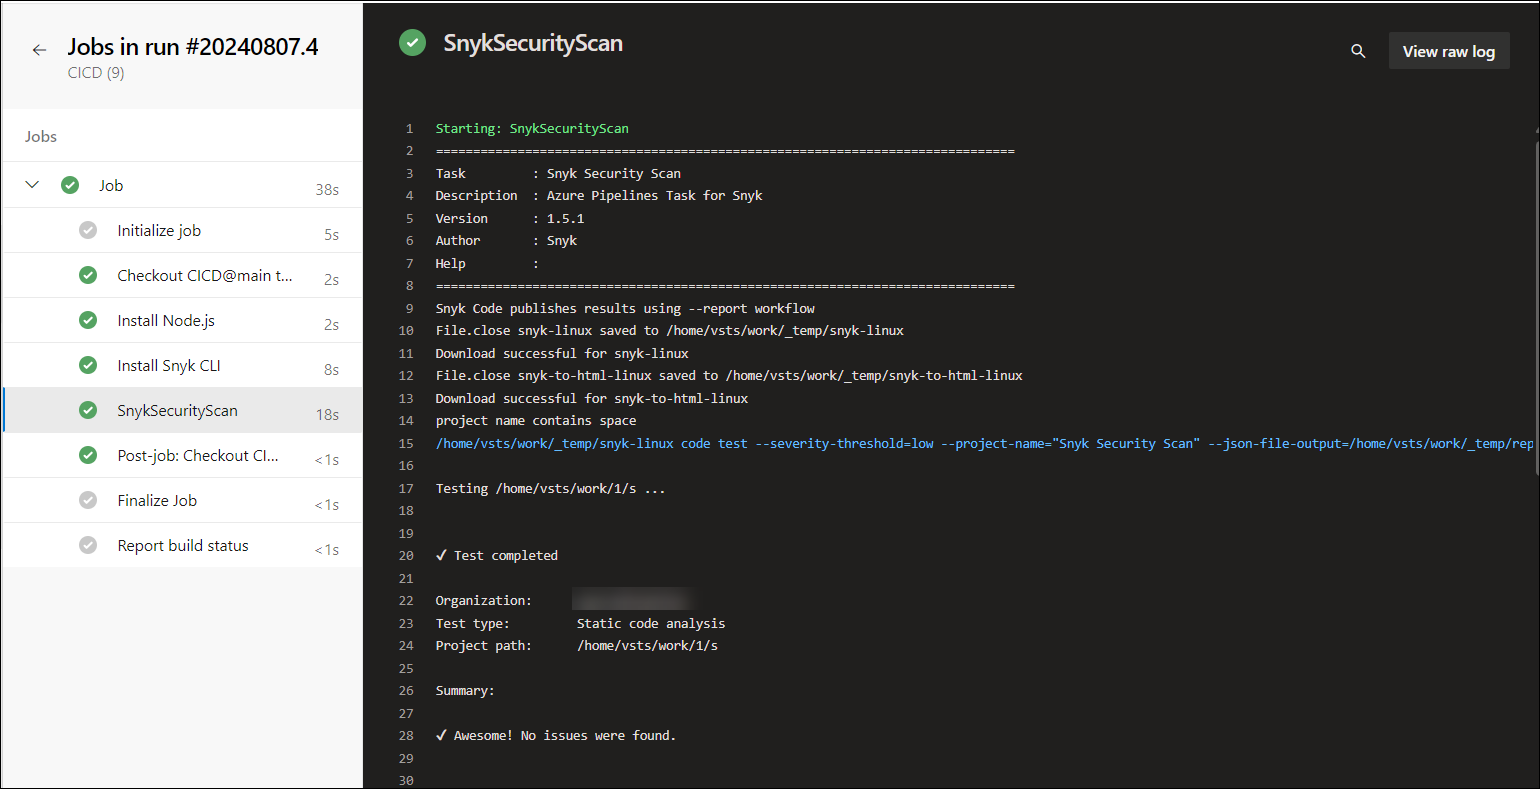
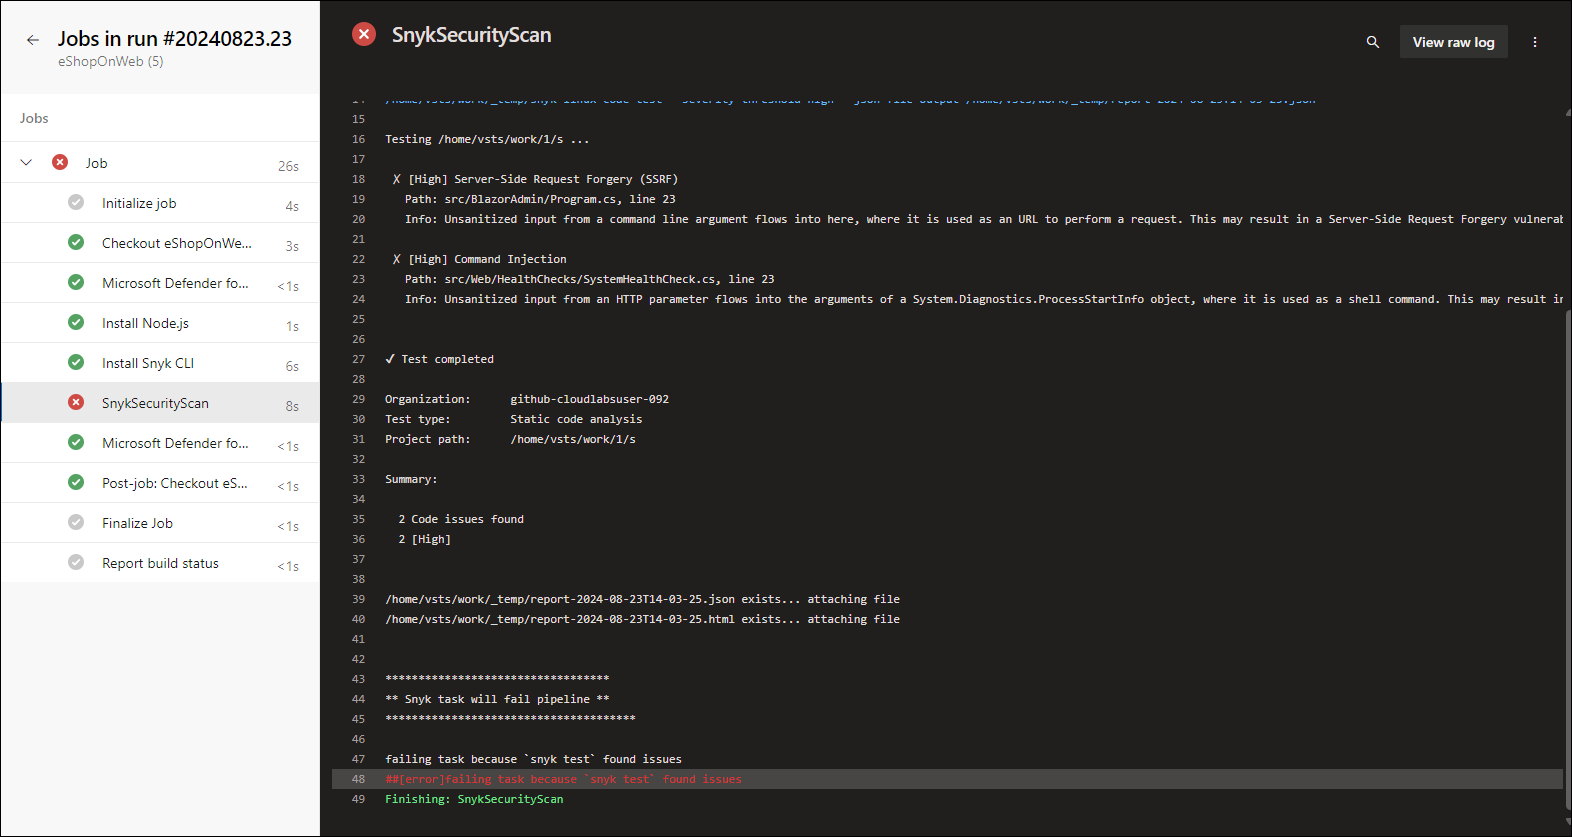
Upated

diff --git a/Instructions/Labs/Module 5 - Defender for DevOps .md b/Instructions/Labs/Module 5 - Defender for DevOps .md
@@ -89,6 +89,14 @@ CD extends CI by automatically deploying all code changes to a production enviro
 
    ![](images/lab1-image6.png)
 
+1. Click on **Repos** > **Branches**, then click the ellipsis next to your branch and select **Branch security**.
+
+   ![](images/167.png)
+
+1. Select **Project Administrators** and set **Bypass policies when pushing** to **Allow**.
+
+   ![](images/166.png)
+
 ### 3. Create a Simple HTML File
 
 1. Click on **Repos (1)>Files (2)**, Click on the three-dot menu (`...`) in the top-right corner of the repository's file explorer section. This menu provides additional actions you can take within the repository.
@@ -536,7 +544,9 @@ To ensure Azure DevOps Advanced Security is enabled in your organization, you ca
 
 1. Click **Save**. Finally, click **Run**.
 
-1. Navigate to the pipeline and select it. The execution may take approximately 5 minutes to complete, so please wait until the build finishes.
+1. Please navigate to the pipeline and select it. The execution may take around 5 minutes to complete. Kindly wait until the build finishes, then review the pipeline result.
+
+    ![](images/165.png)
 
 ## **Task 6: Connecting and Securing your Azure DevOps environment to MDC**
 
@@ -617,8 +627,11 @@ To enhance your security posture comprehensively, integrating non-Microsoft secu
 
 **Snyk** is a well-known tool for vulnerability scanning in open source dependencies. Here’s how to integrate Snyk into your Azure DevOps pipeline to identify security issues:
 
-1. **Go to [Snyk's website](https://snyk.io/).**
+1. Navigate to **Snyk's website** using the link below. 
 
+   ```
+   https://snyk.io/
+   ```
 1. **Click on "Start free"** or **"Sign up"** located on the left of the page.
     
    ![](images/71.png)
@@ -664,31 +677,32 @@ To enhance your security posture comprehensively, integrating non-Microsoft secu
 
    ![](images/135.png)
 
-1. On **where is the code you want to scan** page, select **Github** and then click **Next Step**.
+1. On **where is the code you want to scan** page, select **Skip for now**.
 
-   ![](images/159.png)
+1. Select to **Integrations** from the left pannel and then select on **Azure Repos**.
 
-1. Set sccess permissions to **Private and Public repositories** and then click **Next Step**.
+   ![](images/169.png)
 
-   ![](images/160.png)
+1. On the account credentials page enter your azure devops organization name and enter a personal access token.
 
-1. Configure automation settings and authenticate by clicking **Authenticate Github**.
+   ![](images/170.png)
 
-   ![](images/161.png)
+   >**Note**: Click on **Create a personal access token**, name it **mypattoken**, grant it full access, and then generate the token. Once created, copy the token and paste it into the **Personal Access Token** field on the Snyk page.
 
-1. **Authorize Snyk** to access your GitHub account by clicking "Authorize Snyk" on the GitHub authorization page.
+1. Navigate to the **Projects** and click on **Add project** then select **Azure Repos**.
 
-   ![](images/162.png)
+   ![](images/171.png)
 
-1. Select all the present repository and then click **Import and scan**.
+1. Select **eShopOnWeb** and then click on **Add selected repositories**, wait until the import is completed.
 
-   ![](images/163.png)
+    ![](images/172.png)
 
-1. Access your **Snyk account settings** to retrieve your **API token for authentication** and record it in your notepad.
- 
-   ![](images/70.png)
 
-1. On your lab computer, open the Azure DevOps portal with the **Defender_for_cloud** project in a web browser. Click on the **marketplace icon > Browse Marketplace**.
+1. Navigate to the **Setting > Snyc Code** and make sure **Enable Snyk code** is enable.
+
+   ![](images/168.png)
+
+1. On your lab computer, open the Azure DevOps portal with the **eShopOnWeb** project in a web browser. Click on the **marketplace icon > Browse Marketplace**.
 
    ![](images/61.png)
 
@@ -790,10 +804,96 @@ To enhance your security posture comprehensively, integrating non-Microsoft secu
 
    - For **Snyk API token**, select the API from the dropdown menu.
    - For **What do you want to test**, choose **Code**.
-   - For **Project name in Synk**, enter **Synk Security Scan**.
+   - For **Code Testing severity threshold**, enter **High**.
+   - Fail build if snyk finds issues should be **enable**.
    - Click **Add**.
 
-    ![](images/83.png)
+     ![](images/83.png)
+
+1. Final code should be similar to the below code:
+
+   ```
+   trigger:
+   - main
+
+   pool:
+     vmImage: 'ubuntu-latest'
+
+   steps:
+   - task: UseNode@1
+     inputs:
+       version: '14.x'
+     displayName: 'Install Node.js'
+
+   - script: |
+      npm install -g snyk
+     displayName: 'Install Snyk CLI'
+
+   - task: SnykSecurityScan@1
+     inputs:
+       serviceConnectionEndpoint: 'odluser1434697-eShopOnWeb-b5acb79e-5b3d-4c6f-b2dd-efc4dda52077'
+       testType: 'code'
+       codeSeverityThreshold: 'high'
+       failOnIssues: true
+   ```
+  
+  This YAML file is an Azure Pipelines configuration script used to automate tasks within a DevOps pipeline. Below is an explanation of each section and step:
+
+   - **Trigger**
+   
+      ```yaml
+      trigger:
+         - main
+      ```
+       - This section specifies that the pipeline should be triggered whenever a commit is made to the `main` branch.
+
+   - **Pool**
+ 
+      ```yaml
+      pool:
+         vmImage: 'ubuntu-latest'
+      ```
+       - The `pool` specifies the virtual machine image to be used for running the pipeline. Here, it's set to use the latest version of an Ubuntu-based image.
+
+   - **Steps**: This section defines a series of tasks that the pipeline will execute.
+
+   - **Installing Node.js**
+
+      ```yaml
+      steps:
+         - task: UseNode@1
+           inputs:
+            version: '14.x'
+         displayName: 'Install Node.js'
+      ```
+      - **`task: UseNode@1`**: This task is used to install a specific version of Node.js.
+      - **`version: '14.x'`**: Specifies that Node.js version 14.x should be installed.
+      - **`displayName: 'Install Node.js'`**: Provides a human-readable name for the task, making it easier to identify in the pipeline logs.
+
+   - **Installing Snyk CLI**
+      ```yaml
+      - script: |
+         npm install -g snyk
+      displayName: 'Install Snyk CLI'
+      ```
+      - **`script`**: This step runs a shell script to install the Snyk CLI globally.
+      - **`npm install -g snyk`**: Uses npm (Node Package Manager) to install the Snyk CLI globally on the virtual machine.
+      - **`displayName: 'Install Snyk CLI'`**: Provides a human-readable name for the task.
+
+   - **Running Snyk Security Scan**
+      ```yaml
+      - task: SnykSecurityScan@1
+        inputs:
+          serviceConnectionEndpoint: 'odluser1434697-eShopOnWeb-b5acb79e-5b3d-4c6f-b2dd-efc4dda52077'
+         testType: 'code'
+         codeSeverityThreshold: 'high'
+         failOnIssues: true
+      ```
+      - **`task: SnykSecurityScan@1`**: This task runs a Snyk security scan as part of the pipeline.
+      - **`serviceConnectionEndpoint`**: Refers to a service connection in Azure DevOps that is used to authenticate with Snyk. The identifier is `'odluser1434697-eShopOnWeb-b5acb79e-5b3d-4c6f-b2dd-efc4dda52077'`.
+      - **`testType: 'code'`**: Specifies that the scan should be run on the source code (Static Application Security Testing, or SAST).
+      - **`codeSeverityThreshold: 'high'`**: Configures the scan to only flag issues with a severity level of "high" or above.
+      - **`failOnIssues: true`**: The pipeline will fail if any issues are found that meet or exceed the specified severity threshold.
 
 1. Click **Save and Run** then again click **Save and Run** to start the Build Pipeline process.
 
